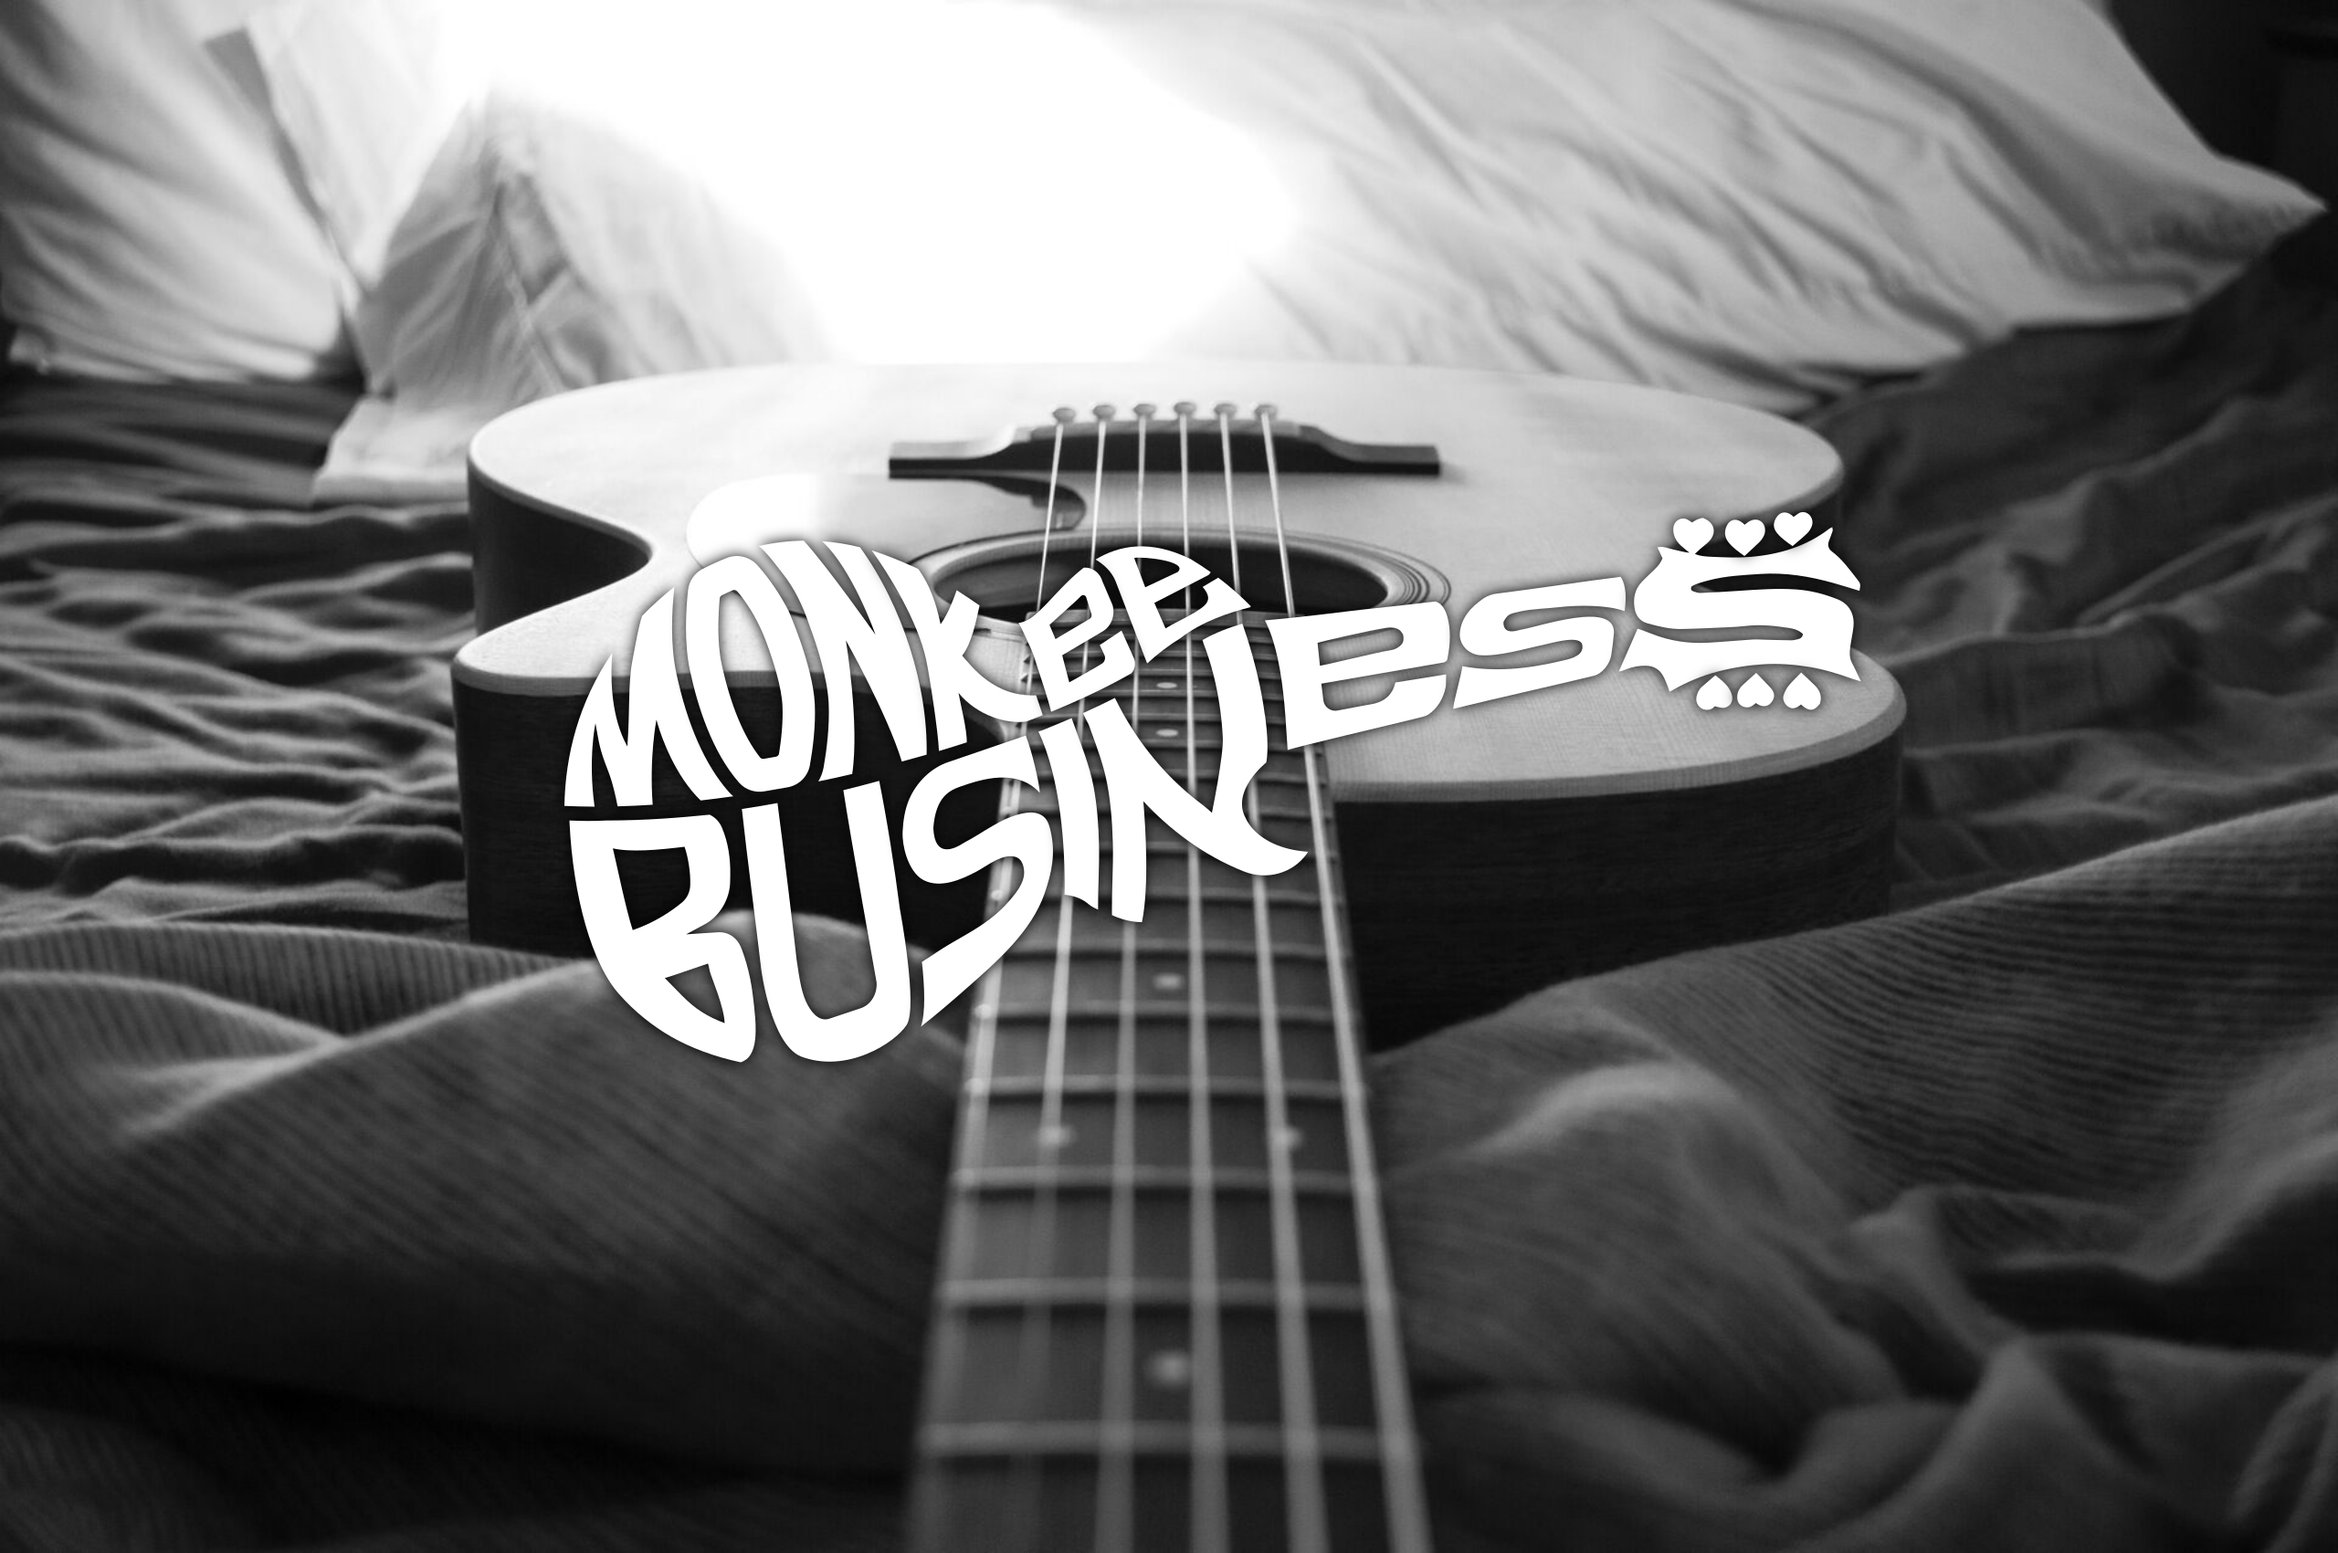
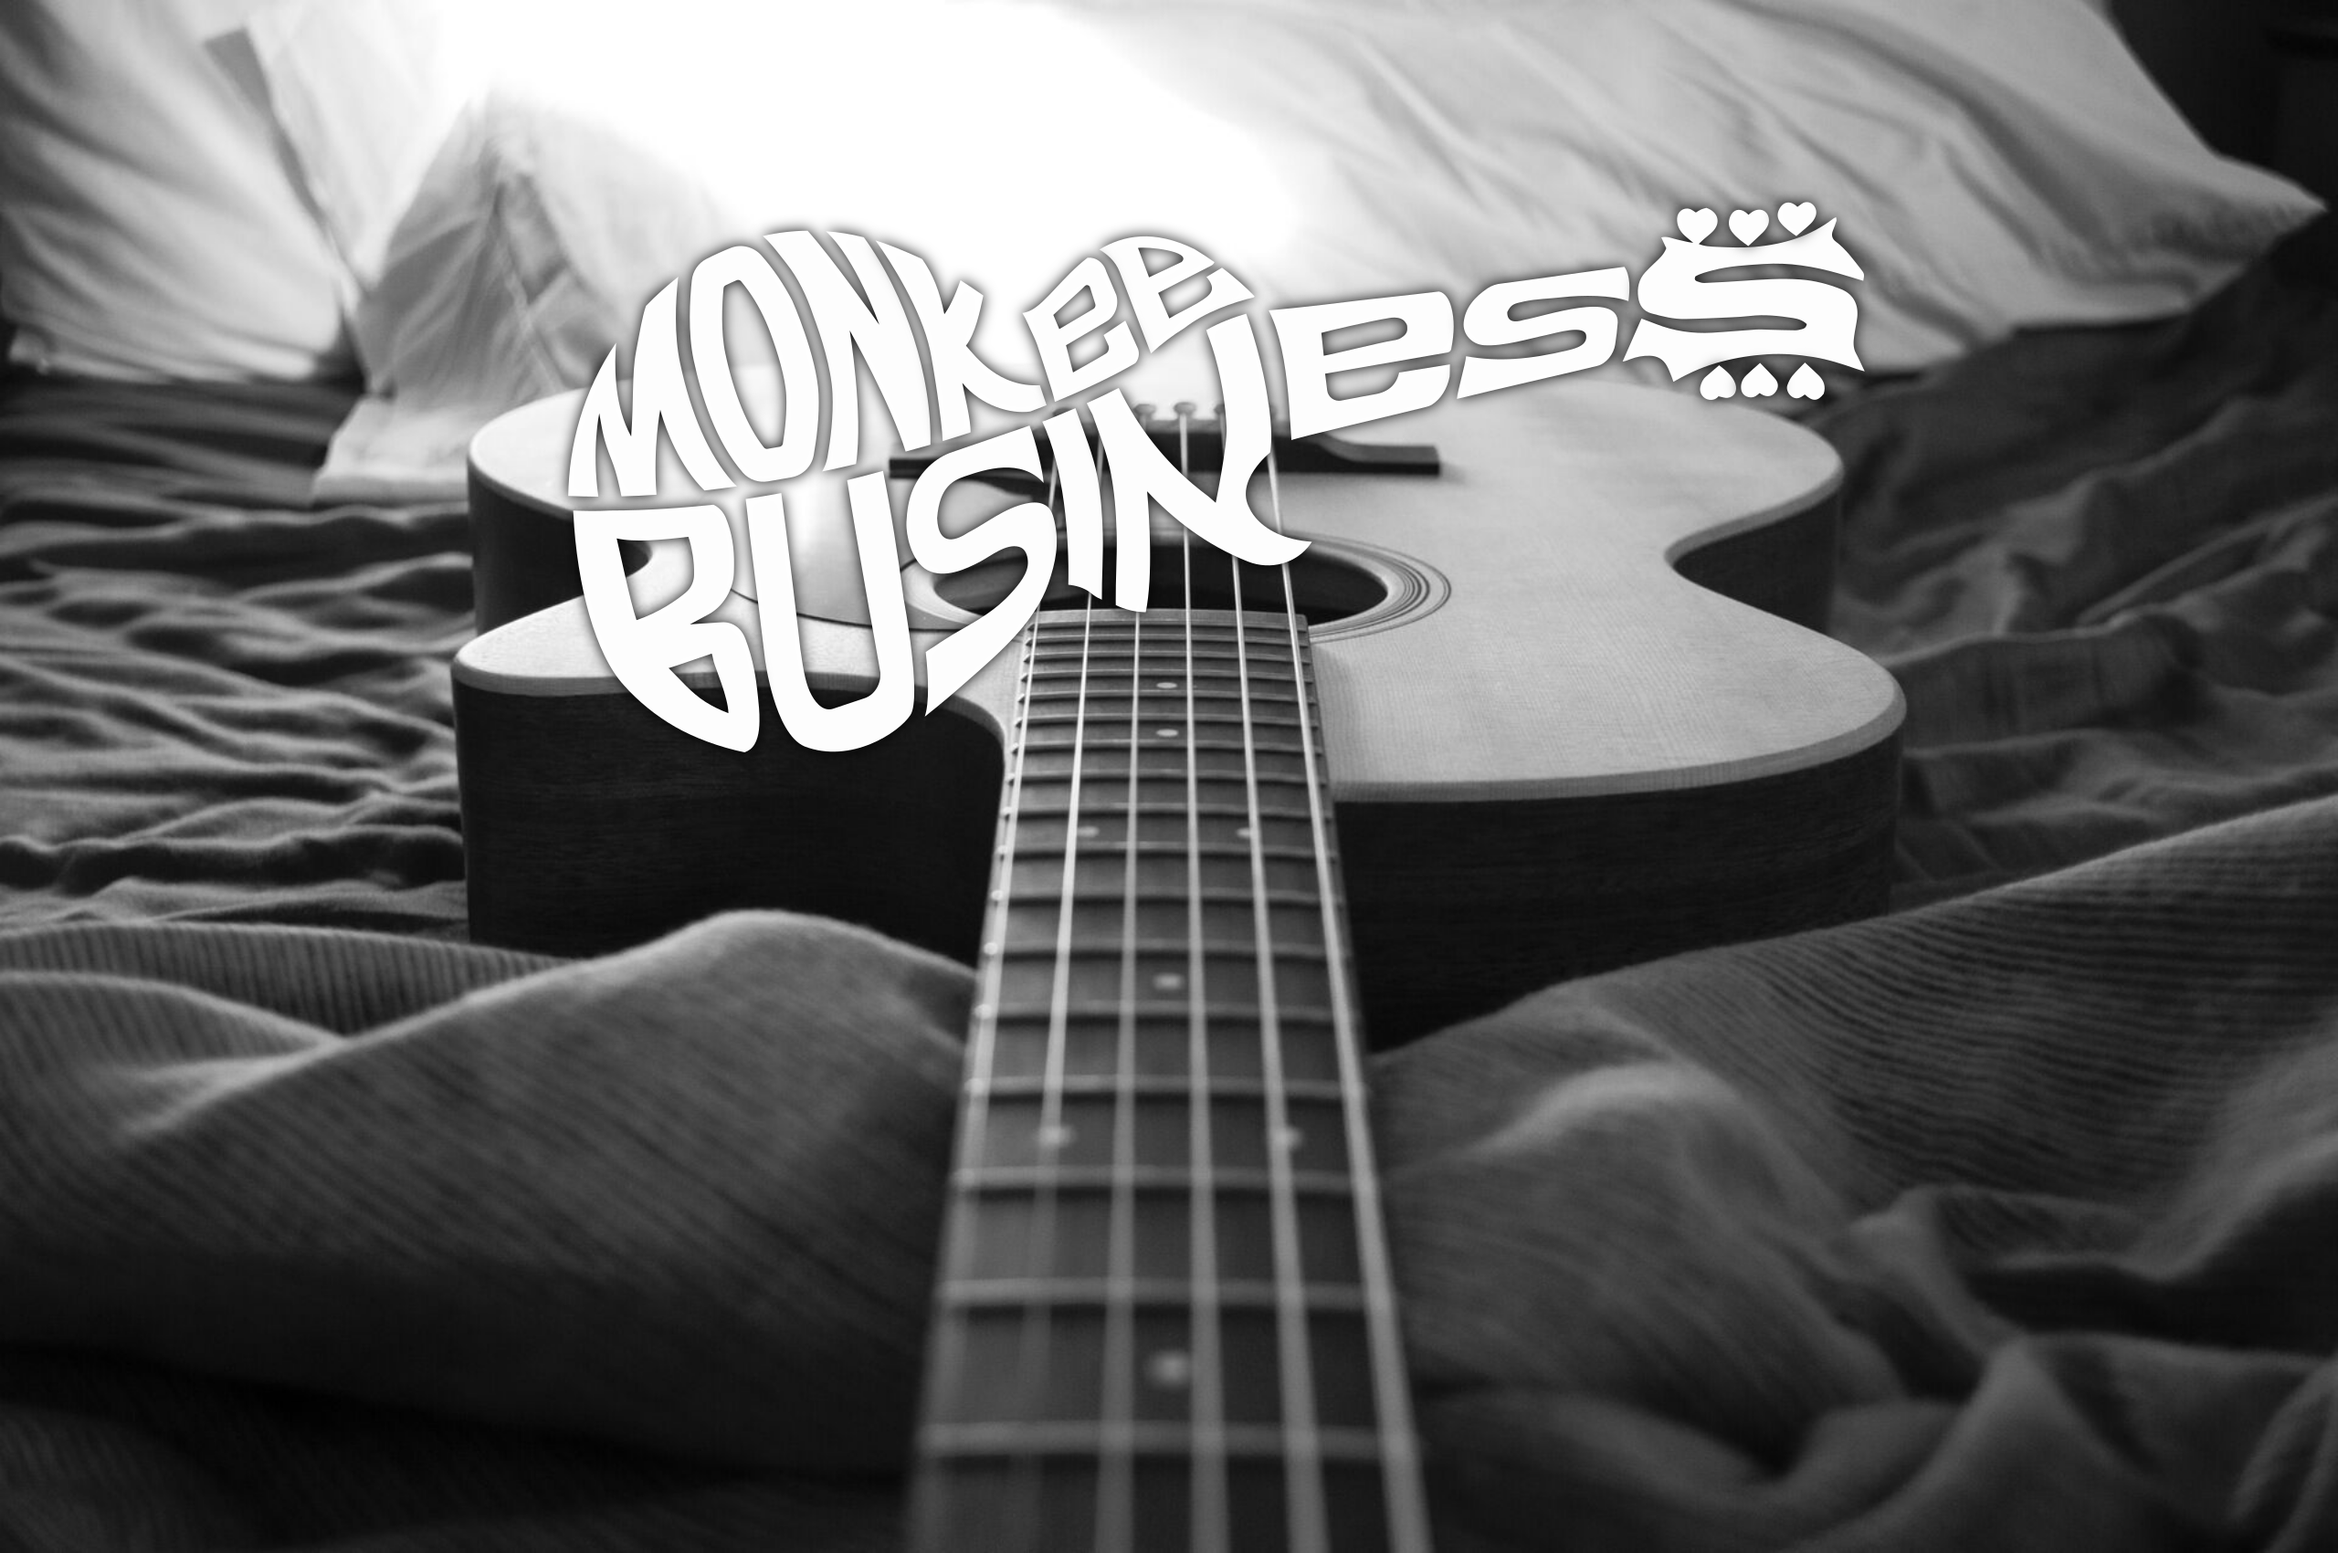
Dial in the hero styles and assets

Changed region(s): [[0.2188, 0.1246, 0.8125, 0.6855]]

diff --git a/css/style.css b/css/style.css
@@ -213,10 +213,23 @@ section {
   min-height: 100vh;
   max-height: 100vh;
   color: #9fa0ac;
-  background: url("../img/monkee-business-hero.png");
+  background: url("../img/guitar-hero.jpg");
   background-size: cover;
   background-position: center;
   background-color: transparent;
+}
+
+.logo {
+  /* centered and spanning the width of the viewport */
+  position: absolute;
+  top: 50%;
+  left: 50%;
+  transform: translate(-50%, -50%);
+  width: 100%;
+  max-width: 500px;
+  height: auto;
+  z-index: 1;
+  cursor: pointer;
 }
 
 h1 {
@@ -236,6 +249,17 @@ h1 {
   animation: opacity 2s cubic-bezier(0.17, 0.67, 0.14, 0.97) both;
   -webkit-animation-delay: 1s;
   animation-delay: 1s;
+}
+
+.visually-hidden {
+  position: absolute;
+  width: 1px;
+  height: 1px;
+  padding: 0;
+  margin: -1px;
+  overflow: hidden;
+  clip: rect(0, 0, 0, 0);
+  white-space: nowrap;
 }
 
 @-webkit-keyframes opacity {
@@ -275,6 +299,30 @@ h2#slogan {
   animation: slideY 2s cubic-bezier(0.17, 0.67, 0.14, 0.97) both;
   -webkit-animation-delay: 1s;
   animation-delay: 1s;
+}
+
+.scroll-down {
+  position: absolute;
+  bottom: 5%;
+  left: 50%;
+  transform: translateX(-50%);
+  width: 30px;
+  height: 30px;
+  cursor: pointer;
+  animation: pulse 2s infinite;
+}
+.scroll-down img {
+  width: 100%;
+  height: 100%;
+}
+
+@keyframes pulse {
+  0%, 100% {
+    transform: translateY(0);
+  }
+  50% {
+    transform: translateY(10px);
+  }
 }
 
 @-webkit-keyframes slideY {

diff --git a/index.html b/index.html
@@ -72,8 +72,14 @@
   </a>
 
 
-    <h1 class="rellax" data-rellax-speed="2">Monkee Business</h1>
+    <div class="logo-container">
+      <img src="img/monkee-business-logo.png" alt="Monkee Business Logo" class="logo">
+      <h1 class="visually-hidden">Monkee Business</h1>
+    </div>
     <h2 id="slogan">A Tribute to the Monkees</h2>
+    <div class="scroll-down">
+      <img src="img/down-arrow.svg" alt="Scroll down">
+    </div>
 
    </section>
 
@@ -215,7 +221,7 @@
     <div class="separator animatableOpacity"></div>
 
     <p class="hardLight">
-      -&nbsp;<&nbsp;Monkee Business&nbsp;>&nbsp;-
+      -&nbsp;Monkee Business&nbsp;-
       <br />
       New York
     </p>

diff --git a/js/mainFunctions.js b/js/mainFunctions.js
@@ -48,6 +48,15 @@ $(function () {
   }
 })
 
+// Scroll down when clicking on div with class `scroll-down`
+$(function () {
+    $('.scroll-down').on('click', function () {
+        $('html, body').animate({
+            scrollTop: $('#nextShow').offset().top
+        }, 1000);
+    })
+})
+
 // Script adresse Email
 // Listener pour chargement adresse mailto
 window.addEventListener("load", function () {
